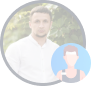
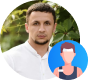
some bug fixed 00:16

diff --git a/src/components/bem-blocks/_how-it-works.html b/src/components/bem-blocks/_how-it-works.html
@@ -80,10 +80,12 @@
                 <div class="work__center-suptitle">Пользователи</div>
                 <div class="user__wrapper">
                     <div class="user">
+                      <div class="user-avatar">
                         <picture>
                             <source srcset="./img/user-1.webp" type="image/webp">
                             <img src="./img/user-1.png" alt="user">
                         </picture>
+                      </div>
                         <div class="user-name user-name--1">Комментатор</div>
                         <svg class="arrow-5" width="21" height="38" viewBox="0 0 21 38" fill="none" xmlns="http://www.w3.org/2000/svg">
                             <path d="M15.4711 37.4512C15.9804 37.6569 16.5618 37.4063 16.7699 36.8914L20.1596 28.5008C20.3676 27.9859 20.1234 27.4017 19.6141 27.196C19.1049 26.9903 18.5234 27.2409 18.3154 27.7558L15.3023 35.2141L7.92575 32.234C7.4165 32.0283 6.83505 32.2789 6.62703 32.7938C6.41902 33.3087 6.66322 33.8928 7.17247 34.0986L15.4711 37.4512ZM0.0816724 1.39582L14.9295 36.9147L16.7661 36.1231L1.91833 0.604179L0.0816724 1.39582Z" fill="white"/>
@@ -91,34 +93,40 @@
 
                     </div>
                     <div class="user">
+                      <div class="user-avatar">
                         <picture>
                             <source srcset="./img/user-2.webp" type="image/webp">
                             <img src="./img/user-2.png" alt="user">
                         </picture>
-                        <div data-aos="fade-down" class="user-name">Спортсмен</div>
+                      </div>
+                        <div class="user-name">Спортсмен</div>
                         <svg class="arrow-5" width="21" height="38" viewBox="0 0 21 38" fill="none" xmlns="http://www.w3.org/2000/svg">
                             <path d="M15.4711 37.4512C15.9804 37.6569 16.5618 37.4063 16.7699 36.8914L20.1596 28.5008C20.3676 27.9859 20.1234 27.4017 19.6141 27.196C19.1049 26.9903 18.5234 27.2409 18.3154 27.7558L15.3023 35.2141L7.92575 32.234C7.4165 32.0283 6.83505 32.2789 6.62703 32.7938C6.41902 33.3087 6.66322 33.8928 7.17247 34.0986L15.4711 37.4512ZM0.0816724 1.39582L14.9295 36.9147L16.7661 36.1231L1.91833 0.604179L0.0816724 1.39582Z" fill="white"/>
                             </svg>
 
                     </div>
                     <div class="user">
+                      <div class="user-avatar">
                         <picture>
                             <source srcset="./img/user-3.webp" type="image/webp">
                             <img src="./img/user-3.png" alt="user">
                         </picture>
-                        <div data-aos="fade-down" class="user-name user-name--3">Эксперт</div>
+                      </div>
+                        <div  class="user-name user-name--3">Эксперт</div>
                         <svg class="arrow-5" width="16" height="40" viewBox="0 0 16 40" fill="none" xmlns="http://www.w3.org/2000/svg">
-                            <path d="M5.8656 39.5721C6.1832 40.0257 6.80646 40.1373 7.25768 39.8214L14.6108 34.6729C15.062 34.3569 15.1704 33.7331 14.8528 33.2795C14.5352 32.8259 13.9119 32.7143 13.4607 33.0303L6.92457 37.6067L2.32409 31.0363C2.00649 30.5827 1.38324 30.4711 0.932011 30.787C0.480786 31.103 0.372459 31.7268 0.690057 32.1804L5.8656 39.5721ZM12.2969 0.823755L5.69827 38.8238L7.66697 39.1763L14.2656 1.17624L12.2969 0.823755Z" fill="#949494"/>
+                            <path d="M5.8656 39.5721C6.1832 40.0257 6.80646 40.1373 7.25768 39.8214L14.6108 34.6729C15.062 34.3569 15.1704 33.7331 14.8528 33.2795C14.5352 32.8259 13.9119 32.7143 13.4607 33.0303L6.92457 37.6067L2.32409 31.0363C2.00649 30.5827 1.38324 30.4711 0.932011 30.787C0.480786 31.103 0.372459 31.7268 0.690057 32.1804L5.8656 39.5721ZM12.2969 0.823755L5.69827 38.8238L7.66697 39.1763L14.2656 1.17624L12.2969 0.823755Z" fill="white"/>
                             </svg>
                     </div>
                     <div class="user">
-                        <picture>
-                            <source srcset="./img/user-4.webp" type="image/webp">
-                            <img src="./img/user-4.png" alt="user">
-                        </picture>
-                        <div data-aos="fade-down" class="user-name user-name--4">Фан</div>
+                        <div class="user-avatar">
+                          <picture>
+                              <source srcset="./img/user-4.webp" type="image/webp">
+                              <img src="./img/user-4.png" alt="user">
+                          </picture>
+                        </div>
+                        <div class="user-name user-name--4">Фан</div>
                         <svg class="arrow-5 a5-4" width="16" height="40" viewBox="0 0 16 40" fill="none" xmlns="http://www.w3.org/2000/svg">
-                            <path d="M5.8656 39.5721C6.1832 40.0257 6.80646 40.1373 7.25768 39.8214L14.6108 34.6729C15.062 34.3569 15.1704 33.7331 14.8528 33.2795C14.5352 32.8259 13.9119 32.7143 13.4607 33.0303L6.92457 37.6067L2.32409 31.0363C2.00649 30.5827 1.38324 30.4711 0.932011 30.787C0.480786 31.103 0.372459 31.7268 0.690057 32.1804L5.8656 39.5721ZM12.2969 0.823755L5.69827 38.8238L7.66697 39.1763L14.2656 1.17624L12.2969 0.823755Z" fill="#949494"/>
+                            <path d="M5.8656 39.5721C6.1832 40.0257 6.80646 40.1373 7.25768 39.8214L14.6108 34.6729C15.062 34.3569 15.1704 33.7331 14.8528 33.2795C14.5352 32.8259 13.9119 32.7143 13.4607 33.0303L6.92457 37.6067L2.32409 31.0363C2.00649 30.5827 1.38324 30.4711 0.932011 30.787C0.480786 31.103 0.372459 31.7268 0.690057 32.1804L5.8656 39.5721ZM12.2969 0.823755L5.69827 38.8238L7.66697 39.1763L14.2656 1.17624L12.2969 0.823755Z" fill="white"/>
                             </svg>
                     </div>
                 </div>
@@ -130,7 +138,7 @@
                                 <source srcset="./img/nfr-card.webp" type="image/webp">
                                 <img src="./img/nfr-card.png" alt="image">
                             </picture>
-                            <div data-aos="fade-down" class="nfr-card-title">nftr</div>
+                            <div  class="nfr-card-title">nftr</div>
                         </div>
                         <div class="nfr-card">
                             <picture>

diff --git a/src/scss/sale.scss b/src/scss/sale.scss
@@ -2,6 +2,7 @@
     position: relative;
     padding-bottom: 70px;
     padding-top: 130px;
+    overflow-x: hidden;
 }
 
 
@@ -92,7 +93,7 @@
         margin-bottom: 24px;
     }
 
-    
+
     &-date {
         font-size: 32px;
         line-height: 37px;
@@ -217,7 +218,7 @@
         left: -236px;
         height: 117rem;
         z-index: -1;
-        
+
     }
 }
 
@@ -292,7 +293,7 @@
     .percent__info {
         padding-bottom: 11px;
     }
-    
+
         .percent__info {
             padding-bottom: 25px;
         }
@@ -302,7 +303,7 @@
         .sale__wrapper-box--second::before {
             height: 108rem;
         }
-    
+
 }
 
 
@@ -384,7 +385,7 @@
 @media screen and (max-width: 534px) {
     .sale-title {
         font-size: 49px;
-        
+
     }
 }
 
@@ -447,7 +448,7 @@
 .sale__box .sale__box-condition {
     font-size: 18px;
 }
-    
+
 }
 
 
@@ -488,7 +489,7 @@
     }
     .sale__box-price__text {
         font-size: 14px;
-        width: auto;    
+        width: auto;
     }
     .sale__box-price__cost {
         font-size: 14px;
@@ -512,7 +513,7 @@
     }
     .sale__box {
         min-width: 259px;
-        
+
     }
     .sale__box-list {
         font-size: 14px;
@@ -524,7 +525,7 @@
         height: 172.6rem;
         top: -69.5rem;
     }
-    
+
 }
 
 @media screen and (max-width:446px) {

diff --git a/src/components/bem-blocks/_home.html b/src/components/bem-blocks/_home.html
@@ -5,18 +5,18 @@
                 <div class="box-title">
                     Мета вселенная онлайн спорта
                 </div>
-                <div data-aos="fade-right" class="main__box-text">
+                <div class="main__box-text">
                     Social DeFi Network Platform Online Sports Industry
                 </div>
-                <div data-aos="fade-right" class="main__box-items">
+                <div " class="main__box-items">
                         <div class="main__box-item">Proof-of-Real-Action - System</div>
                         <div class="main__box-item">NFTR - Non-fungible Reaction</div>
                         <div class="main__box-item">DC-NFT - Dynamically changeable NFT</div>
                 </div>
-                <div data-aos="fade-right" class="main__box-text main__box-round">
+                <div  class="main__box-text main__box-round">
                     Купить токены в приватном раунде
                 </div>
-                <div  data-aos="fade-right" class="main__box-buy">
+                <div class="main__box-buy">
                     <div class="button">
                         <a class="btn" href="#">Купить</a>
                     </div>

diff --git a/src/scss/how-it-work.scss b/src/scss/how-it-work.scss
@@ -164,6 +164,19 @@ font-style: normal;
 font-weight: normal;
 font-size: 18px;
 line-height: 20px;
+
+  &.blured {
+
+    img {
+      filter: brightness(30%);
+      transition: filter 0.3s ease-in-out;
+    }
+
+  }
+  img {
+    filter: brightness(100%);
+    transition: filter 0.3s ease-in-out;
+  }
     }
     .user-name--1 {
         padding-top: 6px;
@@ -212,6 +225,8 @@ z-index: 5;
         padding-top: 24px;
     }
 }
+
+
 
 .proof {
     padding-top: 38px;
@@ -632,10 +647,10 @@ z-index: 5;
             }
         }
         .arrow-block-2 {
-            height: 189px;
-            width: 46px;
-            right: 0;
-            top: 31rem;
+          height: 189px;
+          width: 90px;
+          right: -40px;
+          top: 31rem;
             .arrow-block-arr-2 {
                 font-size: 16px;
             }
@@ -781,5 +796,10 @@ z-index: 5;
                 left: 0.9rem;
             }
         }
-
+        .arrow-block-2 {
+          height: 189px;
+          width: 60px;
+          right: -10px;
+          top: 31rem;
+        }
     }

diff --git a/src/index.html b/src/index.html
@@ -15,13 +15,13 @@
 		@@include('components/bem-blocks/_how-it-works.html')
 		@@include('components/bem-blocks/_benefit.html')
 		 @@include('components/bem-blocks/_ecosystem.html')
-		@@include('components/bem-blocks/_marketplays.html')
+		 @@include('components/bem-blocks/_marketplays.html')
 		@@include('components/bem-blocks/_token.html')
 		@@include('components/bem-blocks/_application.html')
 		@@include('components/bem-blocks/_map.html')
-		@@include('components/bem-blocks/_metrics.html')
-		@@include('components/bem-blocks/_distribution.html') 
-		@@include('components/bem-blocks/_sale.html')
+		 @@include('components/bem-blocks/_metrics.html')
+		@@include('components/bem-blocks/_distribution.html')
+		 @@include('components/bem-blocks/_sale.html')
 		 @@include('components/bem-blocks/_road.html')
 
 	</main>

diff --git a/src/js/01_main.js b/src/js/01_main.js
@@ -10,3 +10,34 @@ document.addEventListener('click', (e) => {
     menu.classList.remove('open')
   }
 })
+
+
+let users = document.querySelectorAll('.user');
+let userWrapper = document.querySelector('.user__wrapper')
+console.log(users);
+
+userWrapper.addEventListener('mouseover', (e) => {
+  users.forEach((user, key) => {
+    if(user.contains(e.target)) {
+      user.classList.add('active')
+    }
+    else {
+      user.classList.add('blured');
+      user.classList.remove('active')
+    }
+  });
+
+})
+
+userWrapper.addEventListener('mouseout', (e) => {
+  users.forEach((user, key) => {
+    if(user.contains(e.target)) {
+      user.classList.remove('active')
+    }
+    else {
+      user.classList.remove('blured');
+      user.classList.remove('active')
+    }
+  });
+
+})

diff --git a/src/scss/ecosystem.scss b/src/scss/ecosystem.scss
@@ -1,6 +1,7 @@
 .ecosystem {
     position: relative;
     padding-bottom: 110px;
+    overflow-x: hidden;
     &__inner {
         background-repeat: no-repeat;
         background-size: cover;
@@ -221,6 +222,10 @@ display: inline;
     .ecosystem__logo img {
         padding: 0px 53px;
     }
+    .fitness-man {
+    top: 32rem;
+    right: -135px;
+}
 
 
 }
@@ -230,8 +235,12 @@ display: inline;
         width: 244px;
     }
     .ecosystem__card .card-title {
-        font-size: 18px;
+        font-size: 20px;
         line-height: 27px;
+        padding-left: 0;
+    }
+    .ecosystem__text, .ecosystem__link {
+      font-size: 16px;
     }
     .ecosystem__logo {
         img {

diff --git a/src/scss/platform.scss b/src/scss/platform.scss
@@ -221,13 +221,13 @@
 
 @media screen and (max-width: 420px) {
     .platform__box {
-        width: 280px;
+        width: 100%;
     }
     .platform__box-container {
         padding: 0 20px;
     }
     .platform__box-title {
-        font-size: 18px;
+        font-size: 23px;
     }
     .platform__box .platform__image img {
         width: 130px;

diff --git a/src/scss/global/map.scss b/src/scss/global/map.scss
@@ -1,5 +1,6 @@
 .map {
     padding-bottom: 110px;
+    overflow-x: scroll;
     &__inner {
         background-repeat: no-repeat;
         background-size:cover;
@@ -405,7 +406,7 @@
 
 @media screen and (max-width: 476px) {
     .map .btn-paper {
-        
+
         padding: 13px 38px
     }
     .map__item .btn {

diff --git a/src/scss/marketplays.scss b/src/scss/marketplays.scss
@@ -113,6 +113,12 @@
         font-size: 34px;
         line-height: 32px;
     }
+    .marketplays__image {
+      display: -webkit-flex;
+      display: -ms-flex;
+      display: flex;
+      justify-content: center;
+    }
    }
 
    @media screen and (max-width:692px) {

diff --git a/src/scss/global/_global.scss b/src/scss/global/_global.scss
@@ -123,12 +123,12 @@ li {
 .button {
 	padding: 25px 0;
 	z-index: 50;
-	
+
 }
 .btn {
 	background: linear-gradient(90.11deg, #086FF5 -39.64%, #24B1FE 104.35%);
 	font-size: 24px;
-	
+
 	text-transform: uppercase;
 	color: #FFFFFF;
 	padding: 25px 79px;

diff --git a/src/scss/_local-fonts.scss b/src/scss/_local-fonts.scss
@@ -1,3 +1,2 @@
 @include font-face("futurabookc", "futurabookc", 400);
-@include font-face("futurabookctt_normal", "futurabookctt_normal", 400);
 @include font-face("futurademic", "futurademic", 400);
